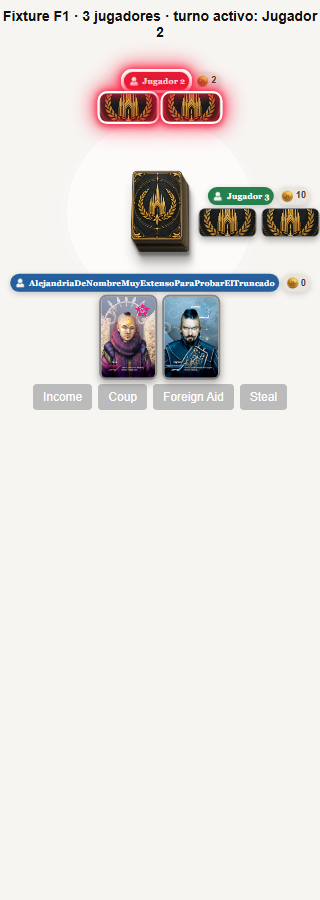
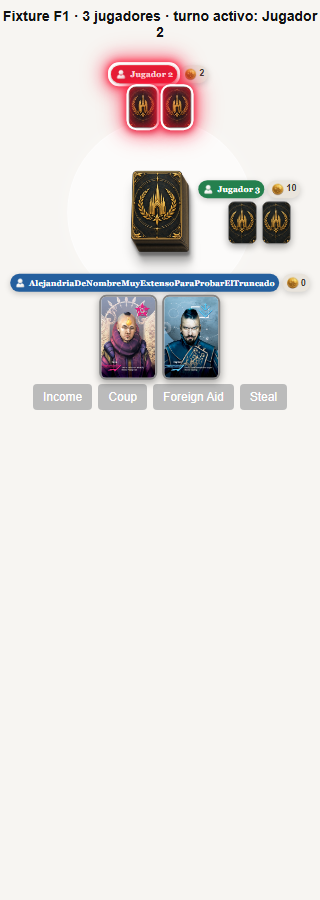
fix(player-header): preserve rival card aspect ratio

Changed region(s): [[0.25, 0.0311, 0.75, 0.1556], [0.5938, 0.1867, 1.0, 0.28]]

diff --git a/coup-client/src/components/game/PlayerBoardStyles.css b/coup-client/src/components/game/PlayerBoardStyles.css
@@ -198,8 +198,9 @@
 }
 
 .PlayerBoardSeat:not(.PlayerBoardSeat--observer) .PlayerInfluenceSlot {
-    height: clamp(42px, 3.5vw, 46px);
-    aspect-ratio: auto;
+    width: clamp(48px, 5.2vw, 70px);
+    height: auto;
+    aspect-ratio: 0.68;
     border-width: 1px;
 }
 
@@ -304,7 +305,9 @@
     }
 
     .PlayerBoardSeat:not(.PlayerBoardSeat--observer) .PlayerInfluenceSlot {
-        height: clamp(28px, 9vw, 38px);
+        width: clamp(29px, 9vw, 42px);
+        height: auto;
+        aspect-ratio: 0.68;
     }
 
     .PlayerBoardSeat[data-seat-header-edge="left"] .PlayerBoardSeatHeader {

diff --git a/docs/plans/player-header/report_issue_16_F1.md b/docs/plans/player-header/report_issue_16_F1.md
@@ -10,7 +10,7 @@
 ## Cambios revisados
 
 - `coup-client/src/components/game/PlayerBoard.js`: presenta icono y nombre junto al contador de monedas en una fila; conserva `player.money` y la señal existente `props.currentPlayer` para el turno activo.
-- `coup-client/src/components/game/PlayerBoardStyles.css`: estilos de barras, texto completo sin elipsis, resplandor activo, fila móvil más baja y cartas rivales más bajas. No cambia la posición de asientos ni controles.
+- `coup-client/src/components/game/PlayerBoardStyles.css`: estilos de barras, texto completo sin elipsis, resplandor activo, fila móvil más baja y cartas rivales reducidas proporcionalmente. No cambia la posición de asientos ni controles.
 - `coup-client/src/assets/player.webp` y `coin.webp`: copias de las fuentes WebP solicitadas.
 
 ## Resultado F1 inicial (histórico)
@@ -52,9 +52,10 @@ La primera iteración limitó el ancho del encabezado. El saldo permanecía ente
 ## F2 reorquestada tras feedback del usuario
 
 - El nombre usa letra mucho menor y se muestra completo sin `…`; la barra se centra respecto al asiento para conservar el texto largo dentro del viewport. A 320 CSS px la fila mide 18 px de alto.
-- Las cartas rivales conservan su ancho, pero su altura baja a 28–38 CSS px en móvil y 42–46 px en escritorio. Las cartas del observador mantienen su altura completa.
+- Las cartas rivales se escalan proporcionalmente con `aspect-ratio: 0.68`: ancho de 29–42 CSS px en móvil y 48–70 px en escritorio; su altura resulta de la proporción. Las cartas del observador mantienen su tamaño completo.
+- En la composición móvil de 6 jugadores, las cartas rivales terminan en `y=269.4` y la barra propia inicia en `y=274.0`, con 4.6 CSS px de separación.
 - Revisión manual de las capturas CDP de 2–6 jugadores: nombres completos, monedas visibles y sin cruce visible de barras con cartas rivales en 5p/6p. La medición focal de 4p móvil confirma nombre `x=29.0…274.8`, pill `x=281.8…310.0`, ambos dentro del viewport CSS 320 px; la fila completa mide 18 px.
-- El set actualizado, generado el 2026-09-26 a las 17:17 (UTC−06:00), está en la tabla nueva. El tablero conserva el viewport y las barras del nombre/saldo quedan dentro de él en los casos revisados.
+- El set actualizado, generado el 2026-09-26 a las 17:49 (UTC−06:00), está en la tabla nueva. El tablero conserva el viewport y las barras del nombre/saldo quedan dentro de él en los casos revisados.
 
 | Jugadores | Escritorio F2, 1280×1000 | Móvil F2, 320×900 CSS |
 |---|---|---|
@@ -67,7 +68,7 @@ La primera iteración limitó el ancho del encabezado. El saldo permanecía ente
 ## Validaciones
 
 - `BUILD_PATH=/tmp/issue16_final_build npm run build` desde `coup-client/`: **código 0**, `Compiled with warnings`. Avisos reportados: imports sin uso en `src/App.js` (`logo`, `Link`) y `src/components/game/Coup.js` (`ReactModal`), más `caniuse-lite` desactualizado. Bundle gzip reportado: 110.94 kB JS y 3.35 kB CSS.
-- `BUILD_PATH=/tmp/issue16_rework_final_build npm run build` desde `coup-client/`: **código 0**, compiló con las mismas advertencias de imports sin uso y `caniuse-lite` desactualizado. Bundle gzip: 110.94 kB JS y 3.4 kB CSS.
+- `BUILD_PATH=/tmp/issue16_ratio_verified npm run build` desde `coup-client/`: **código 0**, compiló con las mismas advertencias de imports sin uso y `caniuse-lite` desactualizado. Bundle gzip: 110.94 kB JS y 3.4 kB CSS.
 - `git diff --check`: pasó sin salida.
 - No se añadieron ni ejecutaron tests automatizados.
 - Las primeras capturas CLI que pedían ventana física de 320 px no fijaban un viewport CSS de 320 px; se descartaron y se retiraron. Este reporte solo enlaza el set CDP validado.

diff --git a/docs/plans/player-header/plan_player_header.md b/docs/plans/player-header/plan_player_header.md
@@ -46,8 +46,8 @@ Rediseñar la identificación visual de cada jugador según `fotos/jugador.png`:
 
 ## F2 — Ajuste visual tras feedback del usuario (`READY_FOR_USER_REVIEW`)
 
-**Decisión autorizada:** reducir bastante el tamaño de letra del nombre, eliminar el truncado con `…` y dejar que el texto completo determine el ancho de la barra; bajar la altura de la barra móvil; reducir la altura de las cartas de los rivales. Las cartas del observador conservan su altura completa.
-**Implementación:** centrar la fila sobre el asiento para que un nombre largo no se corte en los bordes; barra móvil de 18 CSS px, letra de 0.52 rem y sin elipsis; cartas rivales de 28–38 CSS px en móvil y 42–46 CSS px fuera de móvil. El layout y los puntos de asiento no cambian.
+**Decisión autorizada:** reducir bastante el tamaño de letra del nombre, eliminar el truncado con `…` y dejar que el texto completo determine el ancho de la barra; bajar la altura de la barra móvil; reducir proporcionalmente el ancho y alto de las cartas rivales, respetando su aspecto original. Las cartas del observador conservan su tamaño.
+**Implementación:** centrar la fila sobre el asiento para que un nombre largo no se corte en los bordes; barra móvil de 18 CSS px, letra de 0.52 rem y sin elipsis; cartas rivales con `aspect-ratio: 0.68`, ancho de 29–42 CSS px en móvil y 48–70 CSS px fuera de móvil. Su altura se deriva de esa proporción. El layout y los puntos de asiento no cambian.
 **Evidencia:** capturas CDP actuales de 2–6 jugadores a 320×900 y 1280×1000 en `docs/plans/player-header/evidence/`; inspección visual de matriz, build y `git diff --check` pasan.
 **Avanzar:** dejar el PR draft para revisión del usuario. No fusionar ni cerrar #16.
 

diff --git a/docs/plans/active/issue_16_player_header.md b/docs/plans/active/issue_16_player_header.md
@@ -25,7 +25,7 @@ Las fuentes están en el checkout de orquestación, que no forma parte del remot
 
 ## F2 — revisión según feedback del usuario
 
-Reduce bastante la letra de los nombres; elimina `…` y permite que el texto completo expanda la barra. En móvil reduce la altura de esa barra y reduce también la altura de las cartas rivales. Se permite ajustar el alto visual de `PlayerInfluenceSlot` en CSS; conserva las cartas propias completas y no muevas asientos.
+Reduce bastante la letra de los nombres; elimina `…` y permite que el texto completo expanda la barra. En móvil reduce la altura de esa barra. Para las cartas rivales, reduce el ancho y conserva su proporción (`aspect-ratio: 0.68`) para que el alto se reduzca en consecuencia; las cartas propias conservan tamaño y aspecto. No muevas asientos.
 
 **Criterios:** nombre completo visible sin truncar ni salirse del viewport, saldo completo, barra móvil más baja y sin cruces visibles con cartas rivales para 2–6 jugadores. El neón sigue el turno real y los controles/datos quedan intactos.
 
